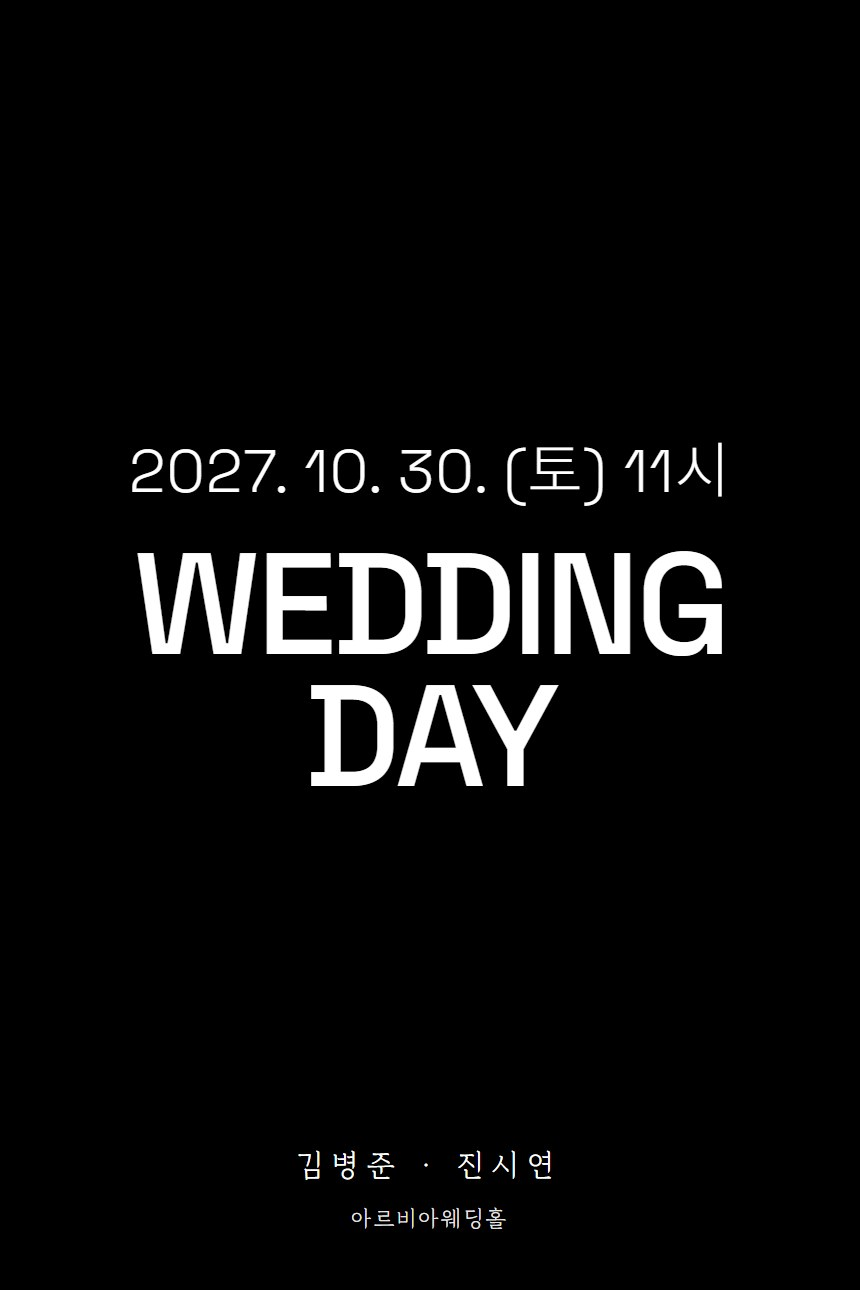
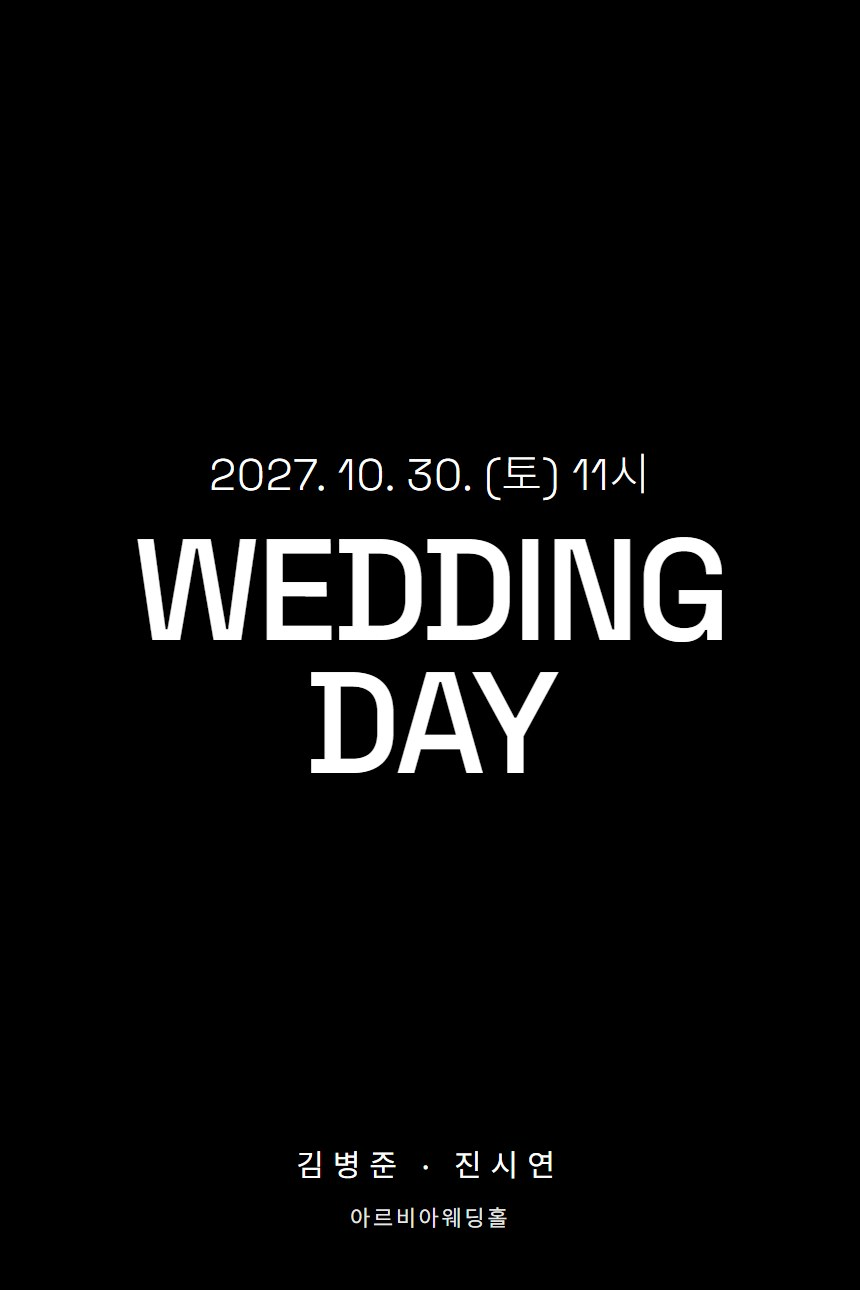
feat: 본문까지 Space Grotesk, 표지 날짜 축소, 포인트 색을 남색으로
- 전체 글꼴을 Space Grotesk(영문·숫자) + Noto Sans KR(한글)로 통일
- 표지 날짜 30px → 22px
- 포인트 색을 세이지 그린에서 남색(#1f2f54)으로, 변수 이름도 --accent로
- 공유 미리보기 이미지 다시 캡처

Changed region(s): [[0.1512, 0.3411, 0.8465, 0.6202], [0.3326, 0.8682, 0.6349, 0.9612]]

diff --git a/index.html b/index.html
@@ -10,25 +10,25 @@
   <meta property="og:image" content="https://jinsi123.github.io/wedding-invitation/images/og-cover.jpg">
   <meta property="og:type" content="website">
   <link rel="preconnect" href="https://fonts.googleapis.com">
-  <link href="https://fonts.googleapis.com/css2?family=Dancing+Script:wght@400;500&family=Space+Grotesk:wght@300;500&family=Archivo:wght@400;500;600&family=Nanum+Myeongjo:wght@400;700&family=Noto+Sans+KR:wght@300;400;500&display=swap" rel="stylesheet">
+  <link href="https://fonts.googleapis.com/css2?family=Dancing+Script:wght@400;500&family=Space+Grotesk:wght@300;400;500;700&family=Archivo:wght@400;500;600&family=Nanum+Myeongjo:wght@400;700&family=Noto+Sans+KR:wght@300;400;500&display=swap" rel="stylesheet">
   <style>
-    /* 밝고 산뜻한 화이트 무드: 사진 위 흰 손글씨 + 흰 별·꽃 낙서, 본문은 흰 바탕에 부드러운 회색 글씨.
-       포인트 색(세이지 그린)은 달력 동그라미, 숫자, 라벨 같은 작은 강조에만 씀 */
+    /* 검은 표지 + 흰 본문. 포인트 색(남색)은 달력 동그라미, 숫자, 라벨 같은 작은 강조에만 씀 */
     :root {
       --black: #2b2b2b;
       --white: #ffffff;
       --ink: #3d3d3d;
       --muted: #8a8a8a;
       --line: #ececec;
-      --soft: #f7f7f5;
-      --page: #f1f1ee;         /* 휴대폰보다 넓은 화면의 바깥 여백 */
-      --green: #5c7756;        /* 세이지 그린: 흰 바탕 위 작은 글씨도 읽히는 진하기 */
-      --green-light: #eef2ec;
+      --soft: #f7f7f8;
+      --page: #f1f1f3;         /* 휴대폰보다 넓은 화면의 바깥 여백 */
+      --accent: #1f2f54;       /* 남색: 흰 바탕 위 작은 글씨도 잘 읽힘 */
+      --accent-light: #eef1f7;
       /* 영문 필기체: 이어 쓰되 잘 읽히는 Dancing Script */
       --font-hand: "Dancing Script", cursive;
-      --font-en: "Archivo", "Helvetica Neue", sans-serif;
-      --font-serif: "GyeonggiBatang", "Nanum Myeongjo", serif;
-      --font-body: "GyeonggiBatang", "Noto Sans KR", serif;
+      /* Space Grotesk엔 한글이 없어서 한글은 같은 결의 고딕(Noto Sans KR)으로 나옴 */
+      --font-en: "Space Grotesk", "Noto Sans KR", sans-serif;
+      --font-serif: "Space Grotesk", "Noto Sans KR", sans-serif;
+      --font-body: "Space Grotesk", "Noto Sans KR", sans-serif;
     }
     /* 경기천년바탕 Regular (눈누 배포 웹폰트) */
     @font-face {
@@ -49,7 +49,7 @@
     main { max-width: 430px; margin: 0 auto; background: var(--white); min-height: 100vh; overflow: hidden; }
     section { padding: 64px 28px; text-align: center; }
     h2 { margin-bottom: 28px; font-weight: 400; display: grid; gap: 4px; }
-    h2 .script { font-family: var(--font-en); font-size: 13px; font-weight: 500; letter-spacing: .3em; text-transform: uppercase; line-height: 1.3; color: var(--green); }
+    h2 .script { font-family: var(--font-en); font-size: 13px; font-weight: 500; letter-spacing: .3em; text-transform: uppercase; line-height: 1.3; color: var(--accent); }
     h2 small { font-family: var(--font-body); font-size: 17px; font-weight: 400; color: var(--ink); letter-spacing: .02em; }
     .muted { color: var(--muted); font-size: 14px; }
 
@@ -58,7 +58,7 @@
     .poster {
       /* 72 : 30 비율 유지 */
       --title-size: min(72px, 20vw);
-      --date-size: min(30px, 8.33vw);
+      --date-size: min(22px, 6.1vw);
       position: relative; aspect-ratio: 2 / 3; padding: 0; color: var(--white); overflow: hidden; background: #1c241b;
     }
     /* 배경과 인물 층은 같은 크기 그림이라 같은 object-fit이면 정확히 겹침 */
@@ -96,6 +96,7 @@
       position: absolute; left: 0; right: 0; bottom: 4%;
       display: grid; gap: 2px; text-shadow: 0 1px 8px rgba(0, 0, 0, .35);
     }
+    .poster-names { font-family: var(--font-body); }
     .poster-names b { font-weight: 400; font-size: 15px; letter-spacing: .3em; }
     .poster-names p { font-size: 11px; letter-spacing: .12em; opacity: .9; }
     /* 사진 없이 검은 표지일 때 */
@@ -104,7 +105,7 @@
 
     /* ---------- 본문 ---------- */
     .names { font-family: var(--font-serif); font-size: 20px; letter-spacing: .1em; }
-    .names span { font-family: var(--font-en); color: var(--green); font-size: 16px; margin: 0 10px; letter-spacing: 0; }
+    .names span { font-family: var(--font-en); color: var(--accent); font-size: 16px; margin: 0 10px; letter-spacing: 0; }
     .when { margin: 4px 0 40px; color: var(--muted); font-size: 13px; }
     .greeting p { white-space: pre-line; font-size: 14px; }
     .parents { margin-top: 36px; font-size: 14px; display: grid; gap: 2px; }
@@ -115,10 +116,10 @@
     .calendar th { color: var(--muted); font-weight: 400; padding: 6px 0; font-family: var(--font-body); }
     .calendar td { padding: 3px 0; }
     .calendar td span { display: inline-block; width: 34px; height: 34px; line-height: 34px; }
-    .calendar .sun { color: var(--green); }
-    .calendar .day-on span { border-radius: 50%; background: var(--green); color: var(--white); font-weight: 500; }
+    .calendar .sun { color: var(--accent); }
+    .calendar .day-on span { border-radius: 50%; background: var(--accent); color: var(--white); font-weight: 500; }
     .dday { margin-top: 28px; font-size: 14px; }
-    .dday b { color: var(--green); font-weight: 500; }
+    .dday b { color: var(--accent); font-weight: 500; }
 
     .gallery { display: grid; grid-template-columns: repeat(3, 1fr); gap: 3px; }
     .gallery img, .gallery .ph {
@@ -141,18 +142,18 @@
       text-decoration: none; cursor: pointer;
     }
     .btn:active { background: var(--soft); }
-    .btn:focus-visible { outline: 2px solid var(--green); outline-offset: 2px; }
-    .btn.primary { background: var(--green); border-color: var(--green); color: var(--white); }
+    .btn:focus-visible { outline: 2px solid var(--accent); outline-offset: 2px; }
+    .btn.primary { background: var(--accent); border-color: var(--accent); color: var(--white); }
     .map {
       width: 100%; height: 260px; margin-top: 24px; border: 1px solid var(--line);
-      background: var(--green-light); display: grid; place-items: center; text-align: center;
+      background: var(--accent-light); display: grid; place-items: center; text-align: center;
     }
     .map-fallback { display: grid; gap: 6px; color: var(--ink); text-decoration: none; font-size: 14px; }
-    .map-fallback b { font-family: var(--font-en); color: var(--green); font-size: 14px; font-weight: 500; letter-spacing: .18em; text-transform: uppercase; line-height: 1; }
+    .map-fallback b { font-family: var(--font-en); color: var(--accent); font-size: 14px; font-weight: 500; letter-spacing: .18em; text-transform: uppercase; line-height: 1; }
     .map-fallback span { text-decoration: underline; text-underline-offset: 3px; }
     .transport { text-align: left; margin-top: 28px; font-size: 14px; }
     .transport dd { white-space: pre-line; }
-    .transport dt { color: var(--green); font-weight: 500; margin-top: 14px; }
+    .transport dt { color: var(--accent); font-weight: 500; margin-top: 14px; }
 
     .account-group { text-align: left; margin-top: 12px; border: 1px solid var(--line); border-radius: 12px; overflow: hidden; }
     .account-group summary { padding: 14px 16px; cursor: pointer; list-style: none; font-size: 15px; font-weight: 400; }
